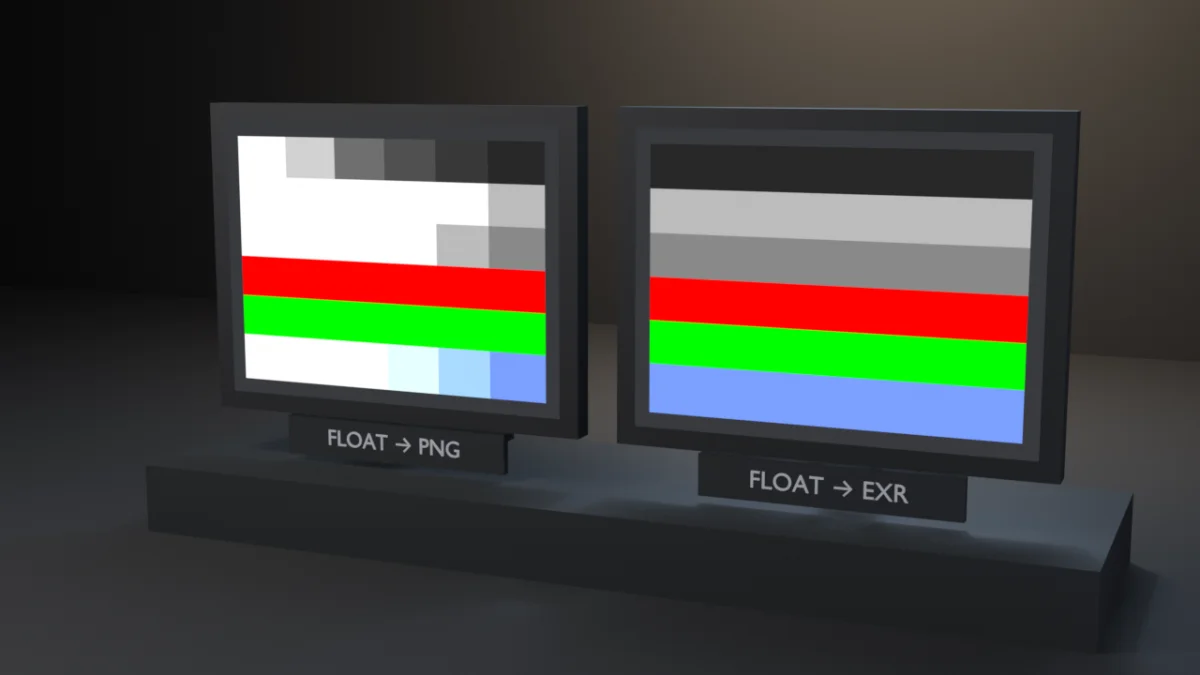
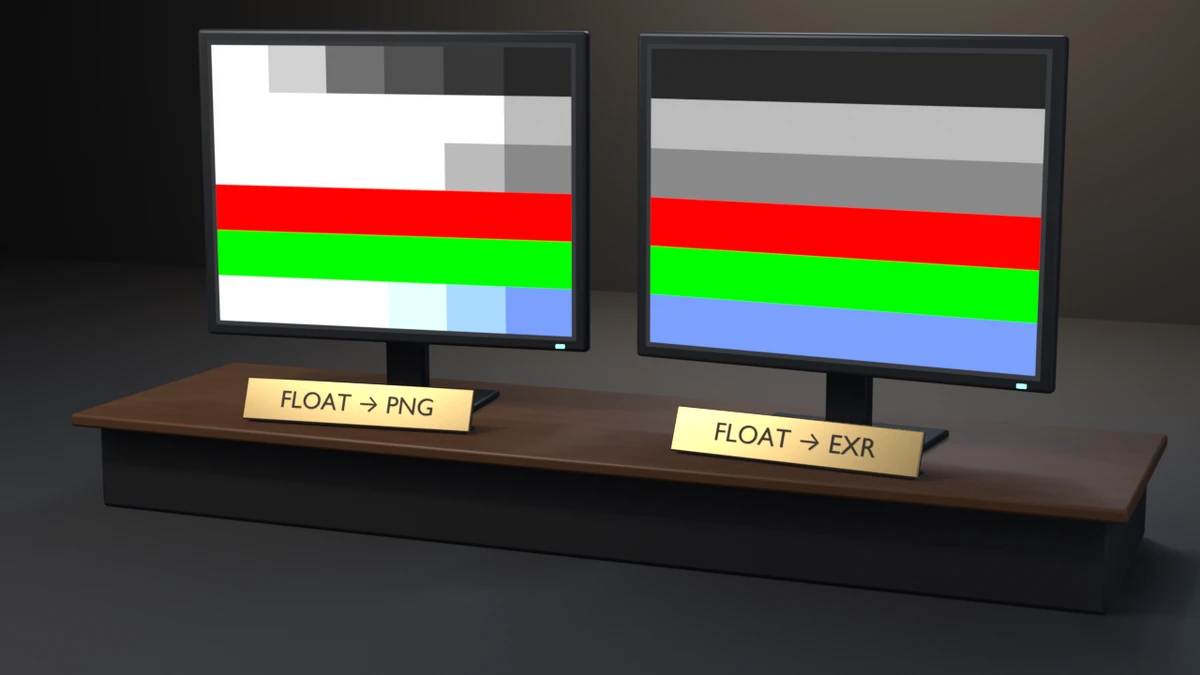
fix(examples): redesign png-exr-alpha as thin-bezel monitors on a walnut console
The boxy displays on struts and the grey plinth are replaced with the
image-pixels-testcard monitor style: a thin polymer case with a rear
housing, a machined neck and base plate, and a power LED. Both monitors
stand on a walnut-topped console, lightly toed in, with brass desk plates
(FLOAT -> PNG / FLOAT -> EXR) in front of them. The painted card trim
shrinks from 10 px to 3 px so the physical case is the bezel. Card data,
checks and exit codes are unchanged.

Evidence (live runs, local):
- .scratch/blender-5.2.1-windows-x64/blender.exe (Blender 5.2.1 LTS):
  check-only exit 0; --opaque-alpha exits 5 ("float->PNG max RGB err
  0.0000076 < floor 0.9 - false-unpremul damage missing"); --output exit 0.
- .scratch/blender-4.5.11-windows-x64/blender.exe (Blender 4.5.11 LTS):
  check-only exit 0; --output exit 0 (framing_ok).
- Framing: fill x=0.725 y=0.667, margins l=0.059 r=0.028 b=0.089 t=0.044.
- Contact sheet (docs/gallery/contact-sheets/png-exr-alpha-contact-sheet.webp):
  candidate luma 0.299 / stage 0.191 / warmth +0.061 / sat 0.201, against
  armature-bend 0.279/0.213/-0.428/0.144, damped-track-aim
  0.151/0.145/+0.277/0.231 and bmesh-gear 0.236/0.177/+0.303/0.250.
  Stage and saturation sit inside the set. Luma is the highest because
  the self-lit data screens are the subject.

diff --git a/examples/png-exr-alpha/png_exr_alpha.py b/examples/png-exr-alpha/png_exr_alpha.py
@@ -352,7 +352,7 @@ def make_gallery_card(name, mangled):
     use fill_pattern).
     """
     gw, gh = 256, 192
-    border = 10
+    border = 3
     img = bpy.data.images.new(name, gw, gh, alpha=True, float_buffer=True)
     img.colorspace_settings.name = "Non-Color"
     px = [0.0] * (gw * gh * 4)
@@ -391,40 +391,44 @@ def make_gallery_card(name, mangled):
 
 
 def fixture_mats():
-    """Designed non-data surfaces: dark polymer bezels, rail-steel struts,
-    machined nameplates, plinth — no Principled defaults."""
-    def mat_principled(name, color, metallic, rough):
+    """Designed non-data surfaces: polymer monitor cases, machined stands,
+    a walnut-topped console, brass desk plates — no Principled defaults."""
+    def mat_principled(name, color, metallic, rough, noise=None):
         mat = bpy.data.materials.new(name)
         mat.use_nodes = True
-        bsdf = mat.node_tree.nodes["Principled BSDF"]
+        nt = mat.node_tree
+        bsdf = nt.nodes["Principled BSDF"]
         bsdf.inputs["Base Color"].default_value = (*color, 1.0)
         bsdf.inputs["Metallic"].default_value = metallic
         bsdf.inputs["Roughness"].default_value = rough
+        if noise:
+            # wear/grain: noise-mottled base color, never a flat slot
+            scale, amount = noise
+            tex = nt.nodes.new("ShaderNodeTexNoise")
+            tex.inputs["Scale"].default_value = scale
+            tex.inputs["Detail"].default_value = 8.0
+            ramp = nt.nodes.new("ShaderNodeValToRGB")
+            ramp.color_ramp.elements[0].color = (*(c * (1 - amount) for c in color), 1.0)
+            ramp.color_ramp.elements[1].color = (*(min(1.0, c * (1 + amount)) for c in color), 1.0)
+            nt.links.new(tex.outputs["Fac"], ramp.inputs["Fac"])
+            nt.links.new(ramp.outputs["Color"], bsdf.inputs["Base Color"])
         return mat
 
+    glow = mat_principled("PowerLed", (0.0, 0.0, 0.0), 0.0, 0.5)
+    gb = glow.node_tree.nodes["Principled BSDF"]
+    gb.inputs["Emission Color"].default_value = (0.10, 0.85, 0.75, 1.0)
+    gb.inputs["Emission Strength"].default_value = 6.0
     return {
-        "bezel": mat_principled("BezelPolymer", (0.045, 0.048, 0.055), 0.1, 0.5),
-        "rail": mat_principled("RailSteel", (0.075, 0.08, 0.09), 0.6, 0.45),
-        "plinth": mat_principled("PlinthSteel", (0.10, 0.11, 0.12), 0.6, 0.5),
-        "plate": mat_principled("PlateSteel", (0.14, 0.15, 0.17), 0.7, 0.4),
+        "case": mat_principled("CasePolymer", (0.030, 0.034, 0.042), 0.0, 0.38),
+        "stand": mat_principled("StandMetal", (0.07, 0.075, 0.085), 0.75, 0.34,
+                                noise=(40.0, 0.25)),
+        "walnut": mat_principled("ConsoleWalnut", (0.15, 0.065, 0.03), 0.0, 0.42,
+                                 noise=(18.0, 0.35)),
+        "body": mat_principled("ConsoleLacquer", (0.028, 0.029, 0.033), 0.0, 0.55),
+        "brass": mat_principled("PlateBrass", (0.80, 0.58, 0.26), 1.0, 0.28,
+                                noise=(60.0, 0.12)),
+        "led": glow,
     }
-
-
-def box_obj(name, dims, loc, mat, rot_x=0.0):
-    me = bpy.data.meshes.new(name)
-    bm = bmesh.new()
-    try:
-        bmesh.ops.create_cube(bm, size=1.0)
-        bm.to_mesh(me)
-    finally:
-        bm.free()
-    me.materials.append(mat)
-    ob = bpy.data.objects.new(name, me)
-    ob.scale = dims
-    ob.location = loc
-    ob.rotation_euler = (rot_x, 0.0, 0.0)
-    bpy.context.collection.objects.link(ob)
-    return ob
 
 
 def face_mesh(name):
@@ -467,59 +471,97 @@ def face_mat(name, image):
 
 
 def caption_mat():
-    mat = bpy.data.materials.new("CaptionGrey")
+    # engraved-ink lettering on the brass desk plates
+    mat = bpy.data.materials.new("CaptionInk")
     mat.use_nodes = True
     cb = mat.node_tree.nodes["Principled BSDF"]
-    cb.inputs["Base Color"].default_value = (0.42, 0.44, 0.48, 1.0)
-    cb.inputs["Metallic"].default_value = 0.2
-    cb.inputs["Roughness"].default_value = 0.6
-    sock = cb.inputs.get("Emission Color") or cb.inputs["Emission"]
-    sock.default_value = (0.38, 0.40, 0.45, 1.0)
-    cb.inputs["Emission Strength"].default_value = 0.5
+    cb.inputs["Base Color"].default_value = (0.012, 0.011, 0.010, 1.0)
+    cb.inputs["Roughness"].default_value = 0.5
     return mat
 
 
-def display_unit(name, image, caption, x, mats, capmat):
-    """One verification display: the emissive data face seated proud of a
-    thick dark bezel, carried by a rear strut and foot, with a machined
-    nameplate under the bezel — a physical instrument standing on the
-    shared plinth, not a floating texture."""
+def bevel_box(name, dims, loc, mat, bevel=0.0, rot=(0.0, 0.0, 0.0)):
+    """A world-dimensioned box (dims baked into the mesh, so a bevel stays
+    even); a small bevel catches a machined edge line."""
+    from mathutils import Vector
+
+    me = bpy.data.meshes.new(name)
+    bm = bmesh.new()
+    try:
+        bmesh.ops.create_cube(bm, size=1.0)
+        bmesh.ops.scale(bm, vec=Vector(dims), verts=bm.verts)
+        bm.to_mesh(me)
+    finally:
+        bm.free()
+    me.materials.append(mat)
+    ob = bpy.data.objects.new(name, me)
+    ob.location = loc
+    ob.rotation_euler = rot
+    bpy.context.collection.objects.link(ob)
+    if bevel > 0.0:
+        mod = ob.modifiers.new("EdgeBevel", "BEVEL")
+        mod.width = bevel
+        mod.segments = 3
+        mod.limit_method = "ANGLE"
+        me.shade_smooth()
+        me.set_sharp_from_angle(angle=math.radians(40.0))
+    return ob
+
+
+DESK_TOP = 0.62   # console top surface height
+
+
+def display_unit(name, image, caption, x, yaw_deg, mats, capmat):
+    """One verification monitor: the emissive data face inside a thin
+    polymer case on a machined neck and base plate, with a brass desk plate
+    in front naming the save path — the image-pixels-testcard monitor, not a
+    floating texture."""
     root = bpy.data.objects.new(name, None)
-    root.location = (x, 0.0, 0.0)
+    root.location = (x, 0.0, DESK_TOP)
+    root.rotation_euler = (0.0, 0.0, math.radians(yaw_deg))
     bpy.context.collection.objects.link(root)
 
     def adopt(ob):
         ob.parent = root
         return ob
 
-    # bezel with real thickness; the face sits proud of its front surface
-    adopt(box_obj(name + "Bezel", (2.64, 0.16, 2.04), (0.0, 0.0, 1.80),
-                  mats["bezel"]))
+    sw, sh = 2.40, 1.80          # 4:3, matching the 256x192 card
+    scr_z = 1.38                 # screen center above the desk top
     face = bpy.data.objects.new(name + "Face", face_mesh(name + "Face"))
     bpy.context.collection.objects.link(face)
     face.data.materials.append(face_mat(name + "FaceMat", image))
-    face.location = (0.0, -0.085, 1.80)
+    face.location = (0.0, -0.001, scr_z)
     face.rotation_euler = (math.radians(90), 0.0, 0.0)
-    face.scale = (1.20, 0.90, 1.0)
+    face.scale = (sw / 2.0, sh / 2.0, 1.0)
     adopt(face)
-    # rear strut leaning onto the bezel back, foot on the plinth top
-    adopt(box_obj(name + "Strut", (0.26, 0.30, 1.30), (0.0, 0.42, 1.10),
-                  mats["rail"], rot_x=math.radians(18)))
-    adopt(box_obj(name + "Foot", (0.60, 0.80, 0.10), (0.0, 0.72, 0.50),
-                  mats["rail"]))
-    # nameplate bridging bezel bottom and plinth top
-    adopt(box_obj(name + "Plate", (1.60, 0.06, 0.26), (0.0, -0.03, 0.63),
-                  mats["plate"]))
+    # thin case: 0.07 bezel around the face, a thicker rear housing
+    adopt(bevel_box(name + "Case", (sw + 0.14, 0.09, sh + 0.14), (0.0, 0.046, scr_z),
+                    mats["case"], bevel=0.025))
+    adopt(bevel_box(name + "Housing", (sw * 0.62, 0.16, sh * 0.55),
+                    (0.0, 0.16, scr_z - 0.05), mats["case"], bevel=0.04))
+    adopt(bevel_box(name + "Neck", (0.26, 0.12, 0.95), (0.0, 0.27, 0.52),
+                    mats["stand"], bevel=0.02))
+    adopt(bevel_box(name + "Base", (1.10, 0.62, 0.05), (0.0, 0.18, 0.025),
+                    mats["stand"], bevel=0.02))
+    adopt(bevel_box(name + "Led", (0.05, 0.02, 0.02), (sw / 2.0 - 0.10, -0.004,
+                    scr_z - sh / 2.0 - 0.035), mats["led"]))
+    # brass tent plate leaning back on the desk, the caption on its face
+    tilt = math.radians(-24.0)
+    adopt(bevel_box(name + "Plate", (1.46, 0.035, 0.26), (0.0, -0.58, 0.135),
+                    mats["brass"], bevel=0.008, rot=(tilt, 0.0, 0.0)))
+    adopt(bevel_box(name + "PlateFoot", (1.40, 0.16, 0.02), (0.0, -0.53, 0.01),
+                    mats["stand"], bevel=0.005))
     cu = bpy.data.curves.new(name + "Caption", "FONT")
     cu.body = caption
     cu.align_x = "CENTER"
     cu.align_y = "CENTER"
     cu.size = 0.15
-    cu.extrude = 0.004
+    cu.extrude = 0.003
     cu.materials.append(capmat)
     cap = bpy.data.objects.new(name + "Caption", cu)
-    cap.location = (0.0, -0.065, 0.63)
-    cap.rotation_euler = (math.radians(90), 0.0, 0.0)
+    # on the plate's front face: offset along the tilted plate normal
+    cap.location = (0.0, -0.58 - 0.021 * math.cos(tilt), 0.135 - 0.021 * math.sin(tilt))
+    cap.rotation_euler = (math.radians(90) + tilt, 0.0, 0.0)
     bpy.context.collection.objects.link(cap)
     adopt(cap)
     return root
@@ -533,13 +575,17 @@ def render_still(path, engine):
     png_card = make_gallery_card("PngMangled", mangled=True)
     exr_card = make_gallery_card("ExrClean", mangled=False)
 
-    # The verification station: two framed displays on a shared plinth —
+    # The verification station: two monitors on a shared console —
     # left bakes the closed-form PNG mangling, right is EXR-clean.
     mats = fixture_mats()
     capmat = caption_mat()
-    display_unit("PngDisplay", png_card, "FLOAT → PNG", -1.45, mats, capmat)
-    display_unit("ExrDisplay", exr_card, "FLOAT → EXR", 1.45, mats, capmat)
-    box_obj("Plinth", (6.10, 1.80, 0.45), (0.0, 0.35, 0.225), mats["plinth"])
+    display_unit("PngDisplay", png_card, "FLOAT → PNG", -1.42, 6.0, mats, capmat)
+    display_unit("ExrDisplay", exr_card, "FLOAT → EXR", 1.42, -6.0, mats, capmat)
+    # shared console: walnut top slab on a dark lacquered body
+    bevel_box("ConsoleTop", (6.40, 1.90, 0.08), (0.0, 0.05, DESK_TOP - 0.04),
+              mats["walnut"], bevel=0.02)
+    bevel_box("Console", (6.20, 1.70, DESK_TOP - 0.08), (0.0, 0.10, (DESK_TOP - 0.08) / 2),
+              mats["body"], bevel=0.03)
 
     floor_me = bpy.data.meshes.new("Floor")
     bm = bmesh.new()
@@ -593,17 +639,15 @@ def render_still(path, engine):
           (0.0, 9.0, 2.6))
 
     aim = bpy.data.objects.new("Aim", None)
-    aim.location = (-0.10, 0.2, 1.38)
+    aim.location = (-0.10, 0.2, 1.12)
     scene.collection.objects.link(aim)
 
     # Gentle 3/4 from the right: both faces stay fully readable while the
-    # bezels, struts, and plinth show their thickness. Aim dropped 0.23 from
-    # the original 1.65 so the plinth clears the bottom edge (framing gate)
-    # without changing the distance or the composition.
+    # cases, stands and console show their thickness.
     cam_data = bpy.data.cameras.new("Cam")
-    cam_data.lens = 50.0
+    cam_data.lens = 60.0
     cam = bpy.data.objects.new("Cam", cam_data)
-    cam.location = (3.9, -9.3, 3.05)
+    cam.location = (4.3, -11.0, 3.2)
     con = cam.constraints.new("TRACK_TO")
     con.target = aim
     con.track_axis = "TRACK_NEGATIVE_Z"
@@ -631,11 +675,11 @@ def render_still(path, engine):
         o for o in scene.objects
         if o.name.startswith(("PngDisplay", "ExrDisplay")) and o.type in {"MESH", "FONT"}
     ]
-    plinth = scene.objects.get("Plinth")
+    console = [scene.objects[n] for n in ("ConsoleTop", "Console")]
     fcode = gallery_framing.check_framing(
         scene, cam,
         hero=hero,
-        elements=hero + ([plinth] if plinth else []),
+        elements=hero + console,
         stage=[floor, wall],
     )
     if fcode:

diff --git a/examples/png-exr-alpha/README.md b/examples/png-exr-alpha/README.md
@@ -51,11 +51,13 @@ treat a 4.4 run as a 4.5 substitute). The only version gate in the file is
 the EEVEE engine id for the optional render (`BLENDER_EEVEE_NEXT` on 4.x,
 `BLENDER_EEVEE` on 5.x).
 
-**Render:** two framed verification displays on a shared plinth — the
-left face bakes the closed-form PNG mangling (dark rows flash to white at
-low-alpha columns), the right face shows the authored straight buffer
-(EXR-clean); nameplates read `FLOAT → PNG` and `FLOAT → EXR`. If the
-contract failed, both panels would read the same.
+**Render:** two thin-bezel monitors on machined stands, sharing a
+walnut-topped console — the left screen bakes the closed-form PNG mangling
+(dark rows flash to white at low-alpha columns), the right screen shows the
+authored straight buffer (EXR-clean); brass desk plates in front read
+`FLOAT → PNG` and `FLOAT → EXR`. If the contract failed, both screens would
+read the same. The render path gates framing through
+`examples/gallery_framing.py` (exit 10) before writing the still.
 
 ## Run
 

diff --git a/README.md b/README.md
@@ -317,7 +317,7 @@ non-destructive path.
 </tr>
 <tr>
 <td width="46%" valign="middle">
-<a href="examples/png-exr-alpha/"><img src="examples/png-exr-alpha/preview.webp" alt="PNG vs EXR alpha: two framed verification displays on a shared plinth in a dark studio — left the float→PNG false-unpremul mangling clamps dark rows to white, right the EXR-clean straight buffer, nameplates reading FLOAT → PNG and FLOAT → EXR under a warm wall pool" /></a>
+<a href="examples/png-exr-alpha/"><img src="examples/png-exr-alpha/preview.webp" alt="PNG vs EXR alpha: two thin-bezel monitors on a walnut-topped console in a dark studio — left the float→PNG false-unpremul mangling clamps dark rows to white, right the EXR-clean straight buffer, brass desk plates reading FLOAT → PNG and FLOAT → EXR" /></a>
 </td>
 <td valign="middle">
 
